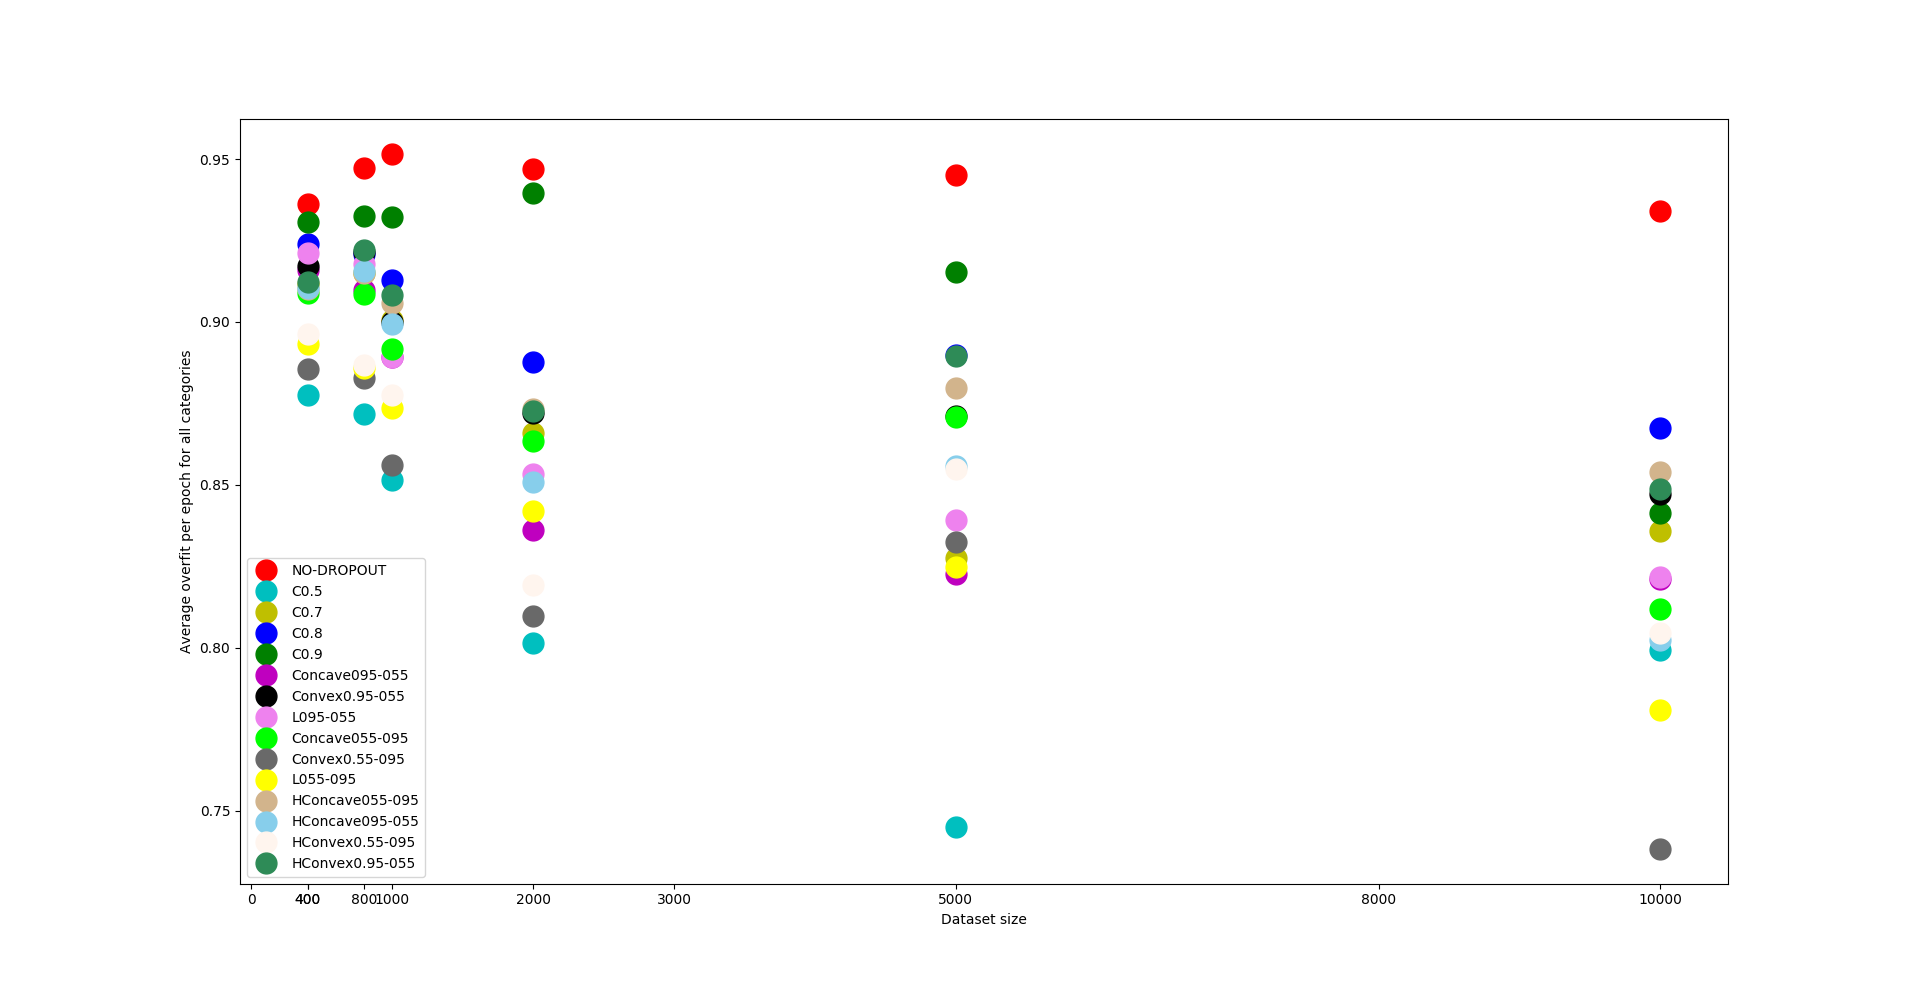
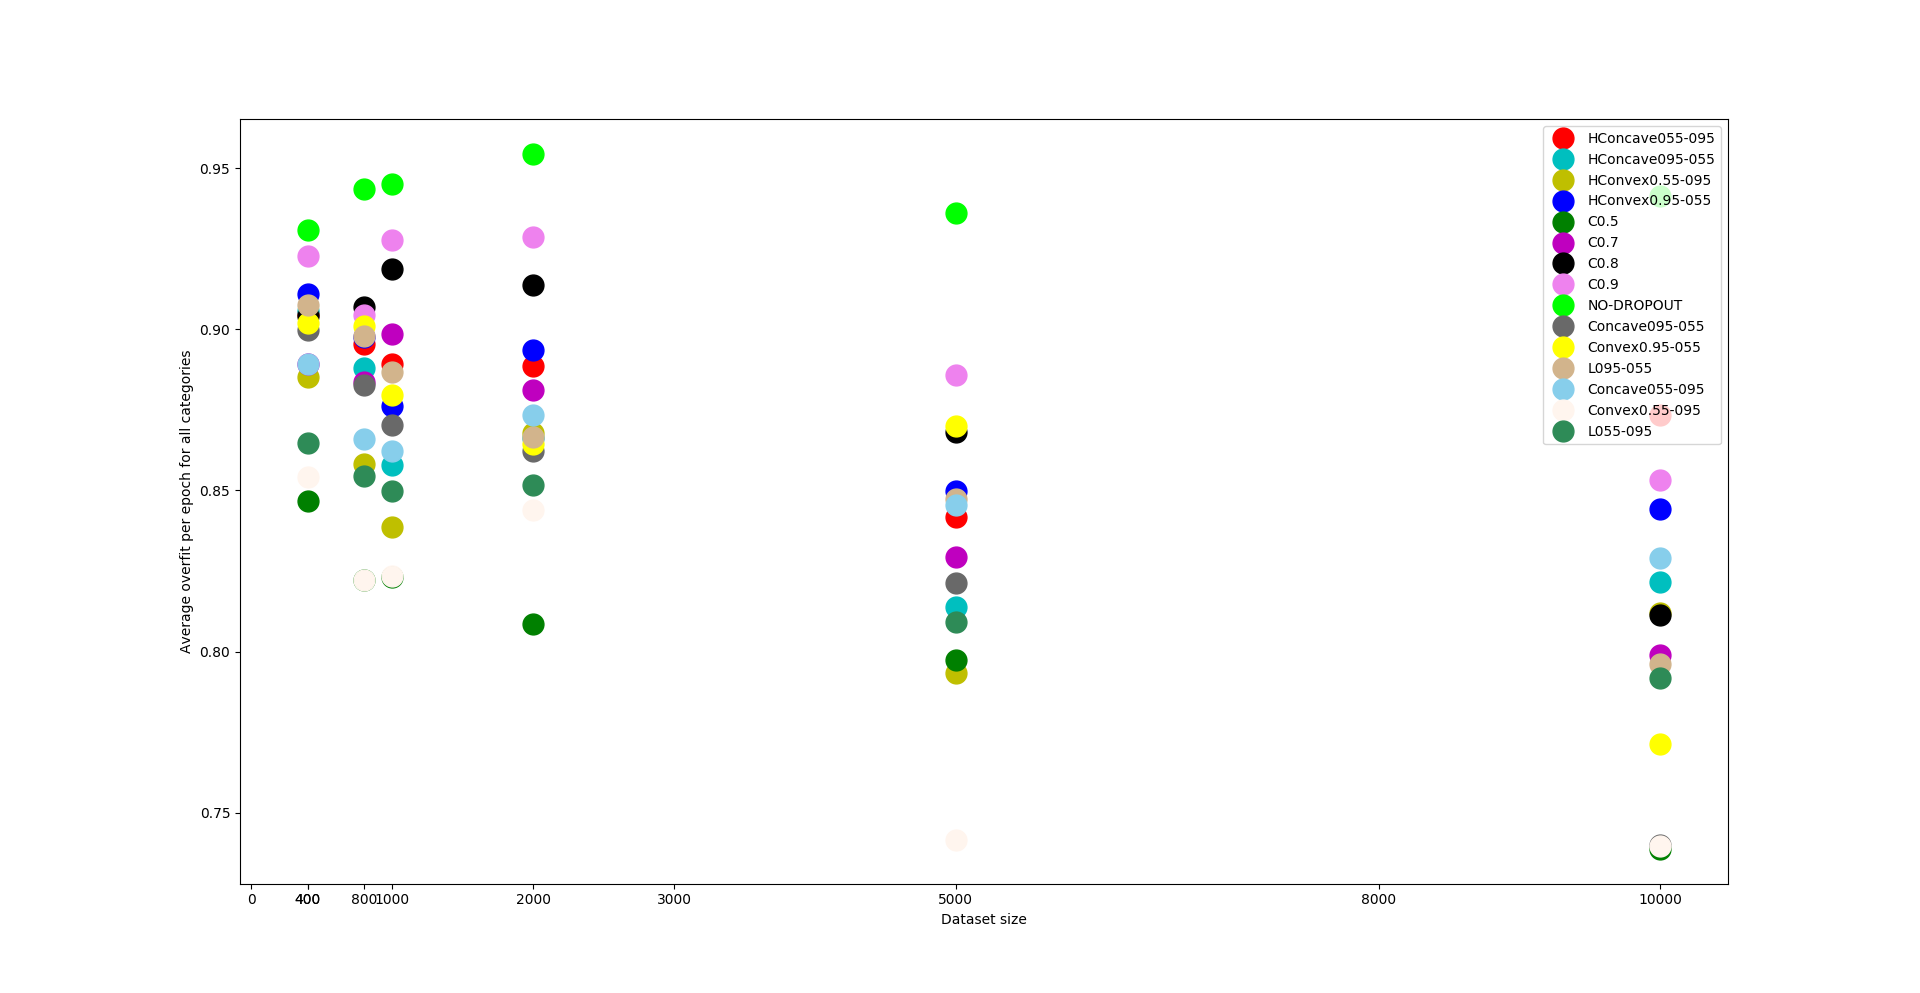
randomized whole dataset first before processing

diff --git a/python/overfit_plotter.py b/python/overfit_plotter.py
@@ -27,8 +27,8 @@ def plot_batch_overfit(dataset, scenario_index_map):
             plott, = plt.plot(label, value, "o", markersize=15, color=colors[scenario_index_map[scenario]])
 
     category = dataset[0]['category']
-    # plt.ylabel("Average overfit per epoch for all categories")
-    plt.ylabel("Average overfit per epoch for category: " + category)
+    plt.ylabel("Average overfit per epoch for all categories")
+    # plt.ylabel("Average overfit per epoch for category: " + category)
     plt.xlabel("Dataset size")
     plt.legend(loc=0)
     # plt.legend(scenarios)
@@ -74,8 +74,8 @@ def plot_overfits():
     batch_overfit_data = []
     for category in overfit_data:
         batch_overfit_data.extend(overfit_data[category])
-        plot_batch_overfit(overfit_data[category], scenarios)
-    # plot_batch_overfit(batch_overfit_data, scenarios)
+        # plot_batch_overfit(overfit_data[category], scenarios)
+    plot_batch_overfit(batch_overfit_data, scenarios)
 
 if __name__ == '__main__':
     plot_overfits()

diff --git a/examples/mnist_experiment.cpp b/examples/mnist_experiment.cpp
@@ -16,6 +16,8 @@ void MnistExperiment::run() {
     Eigen::MatrixXf input = readMnistInput("mnist/train-images.idx3-ubyte", total_size);
     Eigen::MatrixXf output = readMnistOutput("mnist/train-labels.idx1-ubyte", total_size);
 
+    shuffleMatrixPair(input, output);
+
     Eigen::MatrixXf validation_input =
         input.block(validation_begin, 0, validation_size, input.cols());
     Eigen::MatrixXf validation_output =

diff --git a/docs/README.md b/docs/README.md
@@ -38,20 +38,20 @@ And at each iteration validation and training error value is calculated.
 The legend labels are:
 - NO-DROPOUT: Do not apply dropout
 - C05: Constant keeping rate 0.5 for all the iterations
-- L055-0.95: Increasing linear dropout starting with starting keeping rate from 0.55 to 0.95
-- L055-0.95: Increasing linear dropout starting with starting keeping rate from 0.55 to 0.95
-- Concave055-0.95: Increasing concave dropout starting with starting keeping rate from 0.55 to 0.95
-- Convex055-0.95: Increasing convex dropout starting with starting keeping rate from 0.55 to 0.95
-- Concave095-0.55: Decreasing concave dropout starting with starting keeping rate from 0.95 to 0.55
-- Convex05-0.55: Decreasing convex dropout starting with starting keeping rate from 0.95 to 0.55
-- HConcave055-0.95: No dropout for the first 25% iterations. Increasing concave dropout starting with starting keeping rate from 0.55 to 0.95
-- HConvex055-0.95: No dropout for the first %25 iterations. Increasing convex dropout starting with starting keeping rate from 0.55 to 0.95
-- HConcave095-0.55: No dropout for the first 25% iterations. Decreasing concave dropout starting with starting keeping rate from 0.95 to 0.55
-- HConvex05-0.55: No dropout for the first 25% iterations. Decreasing convex dropout starting with starting keeping rate from 0.95 to 0.55
+- L055-0.95: Increasing linear dropout starting with keeping rate from 0.55 to 0.95
+- L055-0.95: Increasing linear dropout starting with keeping rate from 0.55 to 0.95
+- Concave055-0.95: Increasing concave dropout starting with keeping rate from 0.55 to 0.95
+- Convex055-0.95: Increasing convex dropout starting with keeping rate from 0.55 to 0.95
+- Concave095-0.55: Decreasing concave dropout starting with keeping rate from 0.95 to 0.55
+- Convex05-0.55: Decreasing convex dropout starting with keeping rate from 0.95 to 0.55
+- HConcave055-0.95: No dropout for the first 25% iterations. Increasing concave dropout starting with keeping rate from 0.55 to 0.95
+- HConvex055-0.95: No dropout for the first %25 iterations. Increasing convex dropout starting with keeping rate from 0.55 to 0.95
+- HConcave095-0.55: No dropout for the first 25% iterations. Decreasing concave dropout starting with keeping rate from 0.95 to 0.55
+- HConvex05-0.55: No dropout for the first 25% iterations. Decreasing convex dropout starting with keeping rate from 0.95 to 0.55
 
 ![MNIST experiments](overfit_400_10000.png?raw=true "Mnist experiments")
 
-It has been ovserved that, "no-dropout" gives the most performance in terms of overfit with the highest overfit value for all the dataset sizes. Interestingly the constant dropout with the 0.5 gives best performance, but for the dataset size 10000, the lowest overfit value came from "convex-increasing" scenario. For further details, those experiments should be run for more dataset sizes such as 20k to 60k.
+It has been ovserved that, "no-dropout" gives the worst performance in terms of overfit with the highest overfit value for all the dataset sizes. Interestingly the constant dropout with the 0.5 gives best performance with the lowest overfit values for dataset size 400, 800, 1000 and 5000 respectively. But for the dataset size 10000, the lowest overfit value came from "convex-increasing" scenario. For further details, those experiments should be run for more dataset sizes such as 20k to 60k with multiple seeds.
 
 The following pictures give overfit values for each "category". The experiments are also divided into following "categories":
 - DEC: Decreasing
@@ -59,7 +59,6 @@ The following pictures give overfit values for each "category". The experiments 
 - CONSTANT: Constant
 - HALF: No dropout for the half of the iterations, then apply dropout
 - NO: No dropout
-
 
 ![Constant dropout MNIST](overfit_constant_400_10000.png?raw=true "Constant category")
 
